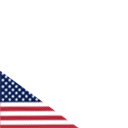
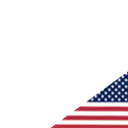
Adds images

Changed region(s): [[0.0, 0.5312, 1.0, 1.0]]

diff --git a/db/seeds.rb b/db/seeds.rb
@@ -40,12 +40,6 @@ b5 = Badge.create!( :title => 'Notablee',
                   :image_url => 'notableeme.png',
                   :owner_id  => 1,
                   :category => "Organizations")
-
-b6 = Badge.create!( :title => 'Umerica', 
-                  :description => 'Land of the free and the home of the brave', 
-                  :image_url => 'american.png',
-                  :owner_id  => 1,
-                  :category => "Countries")
                   
 b7 = Badge.create!( :title => 'Syria', 
                  :description => '#SYRIA #SYRIA #SYRIA', 
@@ -112,6 +106,31 @@ b16 = Badge.create!( :title => 'Keepio',
                 :image_url => 'keepio.png',
                 :owner_id  => 1,
                 :category => "Organizations")
+                
+b17 = Badge.create!( :title => 'Germany', 
+                :description => '#GERMANY #GERMANY #GERMANY', 
+                :image_url => 'germany.png',
+                :owner_id  => 1,
+                :category => "Countries")
+                
+Badge.create!( :title => 'Mexico', 
+              :description => '#MEXICO #MEXICO #MEXICO', 
+              :image_url => 'mexico.png',
+              :owner_id  => 1,
+              :category => "Countries")
+
+Badge.create!( :title => 'USA Stars', 
+              :description => '#USA #USA #USA', 
+              :image_url => 'USA2.png',
+              :owner_id  => 1,
+              :category => "Countries")
+              
+
+Badge.create!( :title => 'Bangladesh', 
+              :description => '#BANGLADESH #BANGLADESH #BANGLADESH', 
+              :image_url => 'bangladesh.png',
+              :owner_id  => 1,
+              :category => "Countries")
                   
 
 puts "it worked!"                  

diff --git a/app/controllers/badges_controller.rb b/app/controllers/badges_controller.rb
@@ -8,6 +8,8 @@ class BadgesController < ApplicationController
 
   def show
     @badge = Badge.find(params[:id])
+    current_user.badge_id = @badge.id
+    current_user.save
   end
 
   def update
